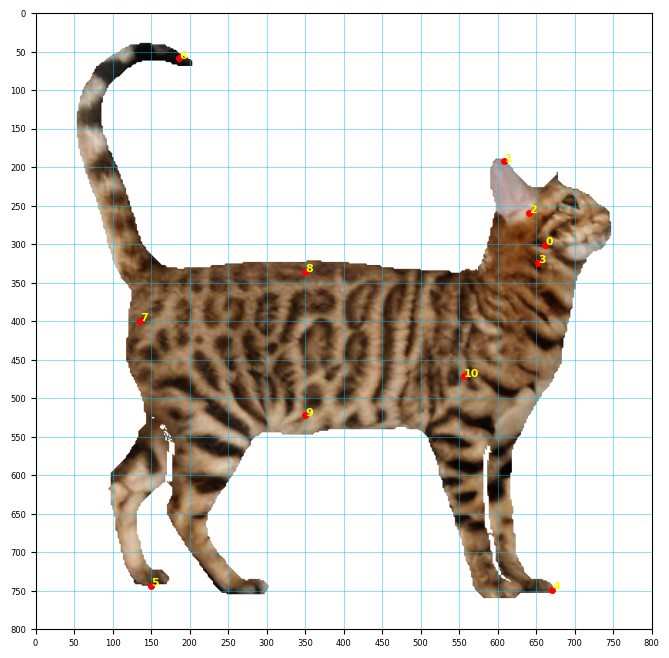
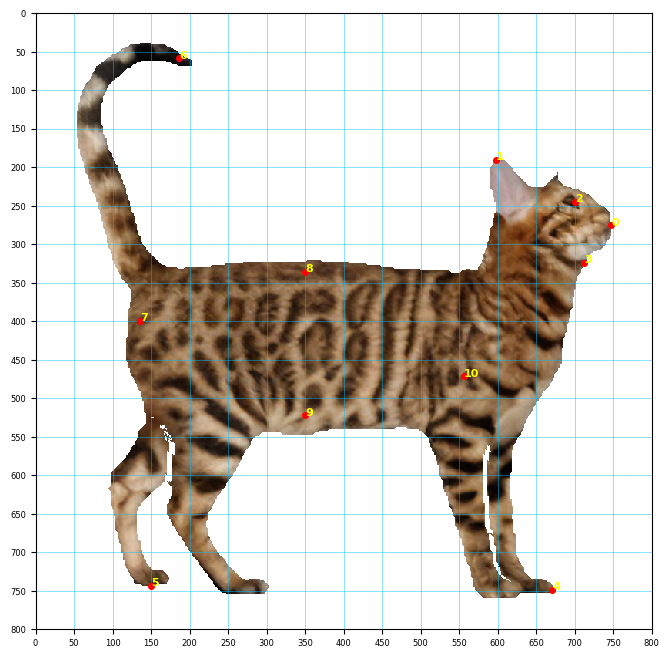
Landmarks checked on zoomed renders; picks snap to the nearest visible vertex
The owner spotted two inconsistent landmarks on cat to lion (the cat's
throat paired with the lion's chin, a cheek with the nose). pick_landmarks.py
gains --zoom for a region of the render with a finer grid, and a pick now
returns the visible vertex nearest to it instead of a corner of the face
under the pixel, so on the coarse lion the ear tip gives the tip vertex.
The eleven pairs were re-picked and checked against the silhouette extremes;
the cat-to-lion numbers change little (landmarks 70 / 93 %, with the mutual
anchors 72 / 96 %).

diff --git a/scripts/idarb/pick_landmarks.py b/scripts/idarb/pick_landmarks.py
@@ -52,12 +52,16 @@ def render_grid(V, F, view, size, grid, colors=None):
     return out, buf
 
 
-def pick_vertices(buf, F, picks, snap=0):
-    """Pixel coordinates (x, y) -> the mesh vertex under them (the corner with the largest
-    barycentric weight). A pixel on the background snaps to the nearest surface pixel within
-    `snap` pixels (silhouette landmarks such as ear tips and paws), else gives -1."""
+def pick_vertices(buf, F, picks, snap=0, depth_tol=0.02):
+    """Pixel coordinates (x, y) -> the mesh vertex under them: the vertex whose projection is
+    nearest to the pick among those on the visible surface (no deeper than the depth buffer
+    there), so that on a coarse mesh an ear tip gives the tip vertex and not another corner of
+    its triangle. A pick on the background snaps to the nearest surface pixel within `snap`
+    pixels (silhouette landmarks such as ear tips and paws), else gives -1."""
     out = []
     size = buf["fid"].shape[0]
+    xy, zv = buf["xy"], buf["zv"]
+    tol = depth_tol * float(zv.max() - zv.min())
     for x, y in picks:
         xi, yi = int(round(x)), int(round(y))
         k = buf["fid"][yi, xi]
@@ -73,9 +77,15 @@ def pick_vertices(buf, F, picks, snap=0):
         if k < 0:
             out.append(-1)
             continue
-        w0, w1 = buf["w0"][yi, xi], buf["w1"][yi, xi]
-        w = np.array([w0, w1, 1 - w0 - w1])
-        out.append(int(F[k, int(w.argmax())]))
+        d = np.linalg.norm(xy - [xi + 0.5, yi + 0.5], axis=1)
+        front = zv >= buf["z"][yi, xi] - tol
+        d[~front] = np.inf
+        near = int(d.argmin())
+        if d[near] <= max(snap, 3):
+            out.append(near)
+        else:  # no visible vertex close by: the corner of the face under the pixel
+            w0, w1 = buf["w0"][yi, xi], buf["w1"][yi, xi]
+            out.append(int(F[k, int(np.argmax([w0, w1, 1 - w0 - w1]))]))
     return out
 
 
@@ -87,6 +97,13 @@ def main():
     ap.add_argument("--view", type=float, nargs=3, default=(0.0, 0.0, 1.0))
     ap.add_argument("--size", type=int, default=800)
     ap.add_argument("--grid", type=int, default=50, help="grid spacing in pixels")
+    ap.add_argument(
+        "--zoom",
+        type=float,
+        nargs=4,
+        metavar=("X0", "Y0", "X1", "Y1"),
+        help="show only this pixel box of the render (coordinates stay those of the full render)",
+    )
     ap.add_argument("--pick", nargs="*", default=[], help="pixel coordinates x,y of the landmarks")
     ap.add_argument(
         "--snap", type=int, default=15, help="snap a background pick to the surface within pixels"
@@ -127,10 +144,12 @@ def main():
     import matplotlib.pyplot as plt
 
     fig, ax = plt.subplots(figsize=(args.size / 100, args.size / 100), dpi=100)
-    ax.imshow(img, extent=(0, args.size, args.size, 0))
-    ticks = np.arange(0, args.size + 1, args.grid)
-    ax.set_xticks(ticks)
-    ax.set_yticks(ticks)
+    ax.imshow(img, extent=(0, args.size, args.size, 0), interpolation="nearest")
+    x0, y0, x1, y1 = args.zoom if args.zoom else (0, 0, args.size, args.size)
+    ax.set_xlim(x0, x1)
+    ax.set_ylim(y1, y0)
+    ax.set_xticks(np.arange(np.ceil(x0 / args.grid) * args.grid, x1 + 1, args.grid))
+    ax.set_yticks(np.arange(np.ceil(y0 / args.grid) * args.grid, y1 + 1, args.grid))
     ax.tick_params(labelsize=6)
     ax.grid(color="deepskyblue", linewidth=0.4, alpha=0.8)
     picks = [tuple(float(v) for v in p.split(",")) for p in args.pick]

diff --git a/scripts/idarb/README.md b/scripts/idarb/README.md
@@ -716,9 +716,12 @@ so a handful of exact pairs pins the map down; a real pair has different shapes.
 features in the same order, `--landmarks_source` / `--landmarks_target`), or
 `pick_landmarks.py`, which needs no 3D viewer: it renders a mesh with a pixel grid, you read the
 pixel coordinates of the features off the image, and `--pick x,y ...` turns them into vertices
-(a pick on the background snaps to the nearest surface pixel, for ear tips and paws), writes them
-to a JSON and draws them numbered on the image for checking; `--merge` joins the source and target
-files into the `--landmarks` JSON of `refine_correspondence.py`. Landmark vertices keep their
+(a pick on the background snaps to the nearest surface pixel, for ear tips and paws, and a pick
+returns the visible vertex nearest to it, so on a coarse mesh an ear tip gives the tip vertex),
+writes them to a JSON and draws them numbered on the image for checking; `--zoom x0 y0 x1 y1`
+with a finer `--grid` shows one region of the render for small features such as a nose or an eye,
+and the picked image is the check that the same feature was picked on both meshes. `--merge`
+joins the source and target files into the `--landmarks` JSON of `refine_correspondence.py`. Landmark vertices keep their
 pair exactly; `--add_mutual` uses the mutual anchors as well. Eleven landmarks were picked this
 way on the cat relief and the lion (nose, ear tip, eye, chin, a front and a hind paw, tail tip,
 rump, back, belly, chest; `results/diff3f/landmarks/`). Cat → lion, textured side only:
@@ -727,8 +730,8 @@ rump, back, belly, chest; `results/diff3f/landmarks/`). Cat → lion, textured s
 |---|---|---|---|
 | nearest neighbour | 69.0 % | 90.9 % | 58 % |
 | automatic: 131 mutual anchors + prior + smoothing | 73.7 % | 96.1 % | 67 % |
-| 11 manual landmarks | 70.8 % | 92.9 % | 62 % |
-| 11 landmarks + the mutual anchors | 72.5 % | 96.0 % | 68 % |
+| 11 manual landmarks | 69.8 % | 93.1 % | 64 % |
+| 11 landmarks + the mutual anchors | 71.9 % | 96.0 % | 68 % |
 
 On this real pair the automatic anchors do at least as well as eleven manual landmarks; the
 landmarks guarantee the picked features themselves and change little elsewhere.

diff --git a/docs/decisions.md b/docs/decisions.md
@@ -292,7 +292,9 @@ The repository will be used beyond the original course, so the owner rewrote `AG
   are rigidly related, so exact landmarks pin the map down). The prior is what helps; smoothing on
   its own does nothing.
 - Landmarks: MeshLab .pp files or `pick_landmarks.py` (grid render, pixel coordinates, snap to the
-  silhouette). Eleven picked on cat → lion: 71 % / 93 % of the textured triangles within 2 % / 5 %,
-  against 69 % / 91 % for nearest neighbour and 74 % / 96 % for the automatic anchors; adding the
-  mutual anchors to the landmarks gives 72 % / 96 %. On a real pair a few landmarks do not beat the
+  silhouette). Eleven picked on cat → lion (nose, ear tip, eye, chin, paws, tail tip, rump, back,
+  belly, chest, checked on zoomed renders after the owner caught a chin matched to a throat and a
+  cheek matched to a nose): 70 % / 93 % of the textured triangles within 2 % / 5 %, against
+  69 % / 91 % for nearest neighbour and 74 % / 96 % for the automatic anchors; adding the mutual
+  anchors to the landmarks gives 72 % / 96 %. On a real pair a few landmarks do not beat the
   automatic anchors; they guarantee the picked features and little else.
